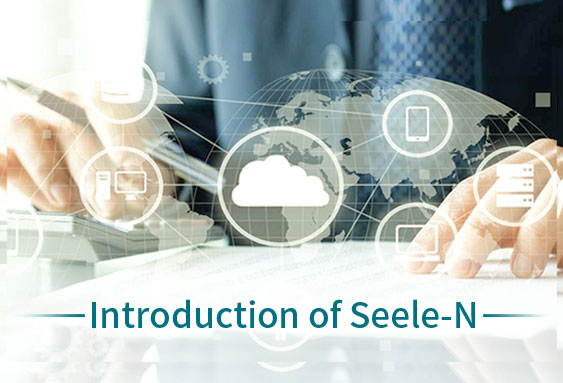
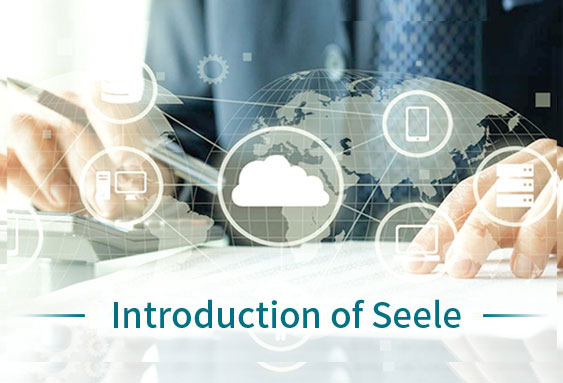
点击状态优化

Changed region(s): [[0.151, 0.7755, 0.8455, 0.8616]]

diff --git a/src/views/Team.vue b/src/views/Team.vue
@@ -4,22 +4,64 @@
       <span>{{ $t("team.tit") }}</span>
     </div>
 
-    <div class="team bg-gray" v-for="(item, index) in list" :key="index">
+    <div
+      class="team bg-gray"
+      v-for="(item, index) in list"
+      :key="index"
+      @click="close"
+    >
       <div class="section">
         <div class="team-t">
           <div class="tit">
             {{ item.tit }} <span>{{ team }}</span>
           </div>
         </div>
-        <div class="team-c">
-          <div class="box" v-for="(sitem, sindex) in item.arr" :key="sindex">
+        <div class="team-c" v-if="isMobile">
+          <div
+            class="box"
+            :class="sindex == idx ? 'box-cur' : ''"
+            v-for="(sitem, sindex) in item.arr"
+            :key="sindex"
+            @click.stop="tipsHandler(sindex)"
+          >
             <ul>
               <li class="li1"><img :src="sitem.img" alt="" srcset="" /></li>
-              <li class="li2">{{ sitem.name }}</li>
+              <li class="li2">
+                <span>{{ sitem.name }}</span>
+              </li>
               <li class="li3"><span></span></li>
               <li class="li4">{{ sitem.position }}</li>
             </ul>
-            <div class="tips" v-html="sitem.tips"></div>
+            <div
+              class="tips"
+              :class="'tips-' + sindex"
+              v-html="sitem.tips"
+            ></div>
+            <div class="tips-arrow"></div>
+          </div>
+        </div>
+        <div class="team-c" v-else>
+          <div
+            class="box"
+            :class="sindex == idx ? 'box-cur' : ''"
+            v-for="(sitem, sindex) in item.arr"
+            :key="sindex"
+            @mouseover="idx = sindex"
+            @mouseout="idx = -1"
+          >
+            <ul>
+              <li class="li1"><img :src="sitem.img" alt="" srcset="" /></li>
+              <li class="li2">
+                <span>{{ sitem.name }}</span>
+              </li>
+              <li class="li3"><span></span></li>
+              <li class="li4">{{ sitem.position }}</li>
+            </ul>
+            <div
+              class="tips"
+              :class="'tips-' + sindex"
+              v-html="sitem.tips"
+            ></div>
             <div class="tips-arrow"></div>
           </div>
         </div>
@@ -29,15 +71,38 @@
 </template>
 
 <script>
+import { isMobile } from "../js/utils";
+
 export default {
   data() {
     return {
       lang: sessionStorage.getItem("LANG"),
       team: sessionStorage.getItem("LANG") === "zh" ? "团队" : "team",
-      list: this.$t("team.plist")
+      list: this.$t("team.plist"),
+      idx: -1,
+      isMobile: false
     };
   },
-  mounted() {}
+  methods: {
+    tipsHandler(index) {
+      if (index == this.idx) {
+        this.idx = -1;
+      } else {
+        this.idx = index;
+      }
+    },
+    close(e) {
+      let btn = document.querySelector(".tips");
+      if (btn) {
+        if (!btn.contains(event.target)) {
+          this.idx = -1;
+        }
+      }
+    }
+  },
+  mounted() {
+    this.isMobile = isMobile();
+  }
 };
 </script>
 
@@ -123,22 +188,22 @@ export default {
       display: none;
       z-index: 99;
     }
-    &:hover {
-      ul {
-        li.li2,
-        li.li4 {
-          color: #007385;
-        }
-        li.li3 {
-          span {
-            background-color: #007385;
-          }
+  }
+  .box-cur {
+    ul {
+      li.li2,
+      li.li4 {
+        color: #007385;
+      }
+      li.li3 {
+        span {
+          background-color: #007385;
         }
       }
-      .tips,
-      .tips-arrow {
-        display: block;
-      }
+    }
+    .tips,
+    .tips-arrow {
+      display: block;
     }
   }
 }
@@ -161,9 +226,11 @@ export default {
   }
   .team-c {
     padding: 20px 15px;
+    position: relative;
     .box {
       width: 33%;
       padding: 10px;
+      position: static;
       ul {
         li.li1 {
           img {
@@ -172,16 +239,36 @@ export default {
         }
         li.li2 {
           font-size: 14px;
+          height: 42px;
+          display: flex;
+          align-items: center;
+          justify-content: center;
         }
         li.li4 {
           font-size: 12px;
         }
       }
-      &:hover {
-        .tips,
-        .tips-arrow {
-          display: none;
-        }
+
+      .tips-0,
+      .tips-1,
+      .tips-2 {
+        width: 100%;
+        position: absolute;
+        top: 190px;
+        left: 0;
+      }
+      .tips-3,
+      .tips-4,
+      .tips-5 {
+        width: 100%;
+        position: absolute;
+        top: 412px;
+        left: 0;
+      }
+    }
+    .box-cur {
+      .tips-arrow {
+        display: none;
       }
     }
   }

diff --git a/src/lang/en.js b/src/lang/en.js
@@ -17,7 +17,7 @@ module.exports = {
   },
   video: {
     txt: [
-      'Through in-depth research, Seele-N project team solves the system problems of knowledge structure, inheritance and transmission with knowledge interconnection, and solves the conflict of rights and interests in the process of knowledge release, dissemination and use with value interconnection. Knowledge interconnection + value interconnection, together established the " Industrial Data Infrastructure Exchange Platform ", constructed a complete knowledge chain, has spawned a large number of new applications, new interactive models.',
+      'Through in-depth research, Seele project team solves the system problems of knowledge structure, inheritance and transmission with knowledge interconnection, and solves the conflict of rights and interests in the process of knowledge release, dissemination and use with value interconnection. Knowledge interconnection + value interconnection, together established the " Industrial Data Infrastructure Exchange Platform ", constructed a complete knowledge chain, has spawned a large number of new applications, new interactive models.',
       "Our core goal is to solve the sharing, co-construction, and win-win of data infrastructure resources from the infrastructure level, and open up the channels for resource property exchange and value realization. The project develops a value exchange platform for global knowledge property circulation service and builds a financial infrastructure for data property trading platform. An open system of knowledge rights and interests is established with EIP (Executive IP) as the core, and a unified ecology of responsibility, power and profit in the process of globalization of new property is established."
     ]
   },

diff --git a/src/lang/zh.js b/src/lang/zh.js
@@ -10,7 +10,7 @@ module.exports = {
   },
   video: {
     txt: [
-      "Seele-N项目团队通过深入研究，以知识互联解决知识的结构、继承、传递等体系问题，以价值互联解决知识发布、传播、使用过程中的权益冲突。知识互联+价值互联，融合建立“产业数据基础资源交换平台”，构建完整的知识链条，催生大量新型应用、新型互动模式的涌现。",
+      "Seele项目团队通过深入研究，以知识互联解决知识的结构、继承、传递等体系问题，以价值互联解决知识发布、传播、使用过程中的权益冲突。知识互联+价值互联，融合建立“产业数据基础资源交换平台”，构建完整的知识链条，催生大量新型应用、新型互动模式的涌现。",
       "我们的核心目标是，从基础设施层面解决数据基础资源的共享、共建、共赢，打通资源资产的交换、价值变现的通路。项目开发为全球知识资产流通服务的价值交换平台和建设为数据资产交易平台服务的金融基础设施，以可执行知识产权为核心建立知识权益的开放体系，架设新型资产全球化过程中责、权、利的统一生态。"
     ]
   },

diff --git a/public/index.html b/public/index.html
@@ -20,4 +20,13 @@
     <div id="app"></div>
     <!-- built files will be auto injected -->
   </body>
+  <script>
+    var _hmt = _hmt || [];
+    (function() {
+      var hm = document.createElement("script");
+      hm.src = "https://hm.baidu.com/hm.js?e8671803cd927ebdd202b68699f5e90c";
+      var s = document.getElementsByTagName("script")[0]; 
+      s.parentNode.insertBefore(hm, s);
+    })();
+    </script>
 </html>

diff --git a/src/App.vue b/src/App.vue
@@ -56,7 +56,7 @@
     <div class="footer">
       <div class="section">
         <div class="footer-copyright">
-          Copyright © 2019 Seele Foundation
+          Copyright © 2020 Seele Foundation
         </div>
         <div class="footer-link">
           <a

diff --git a/src/views/Home.vue b/src/views/Home.vue
@@ -414,6 +414,7 @@ export default {
         }
         .videotxt {
           padding: 20px;
+          line-height: 30px;
         }
       }
     }
